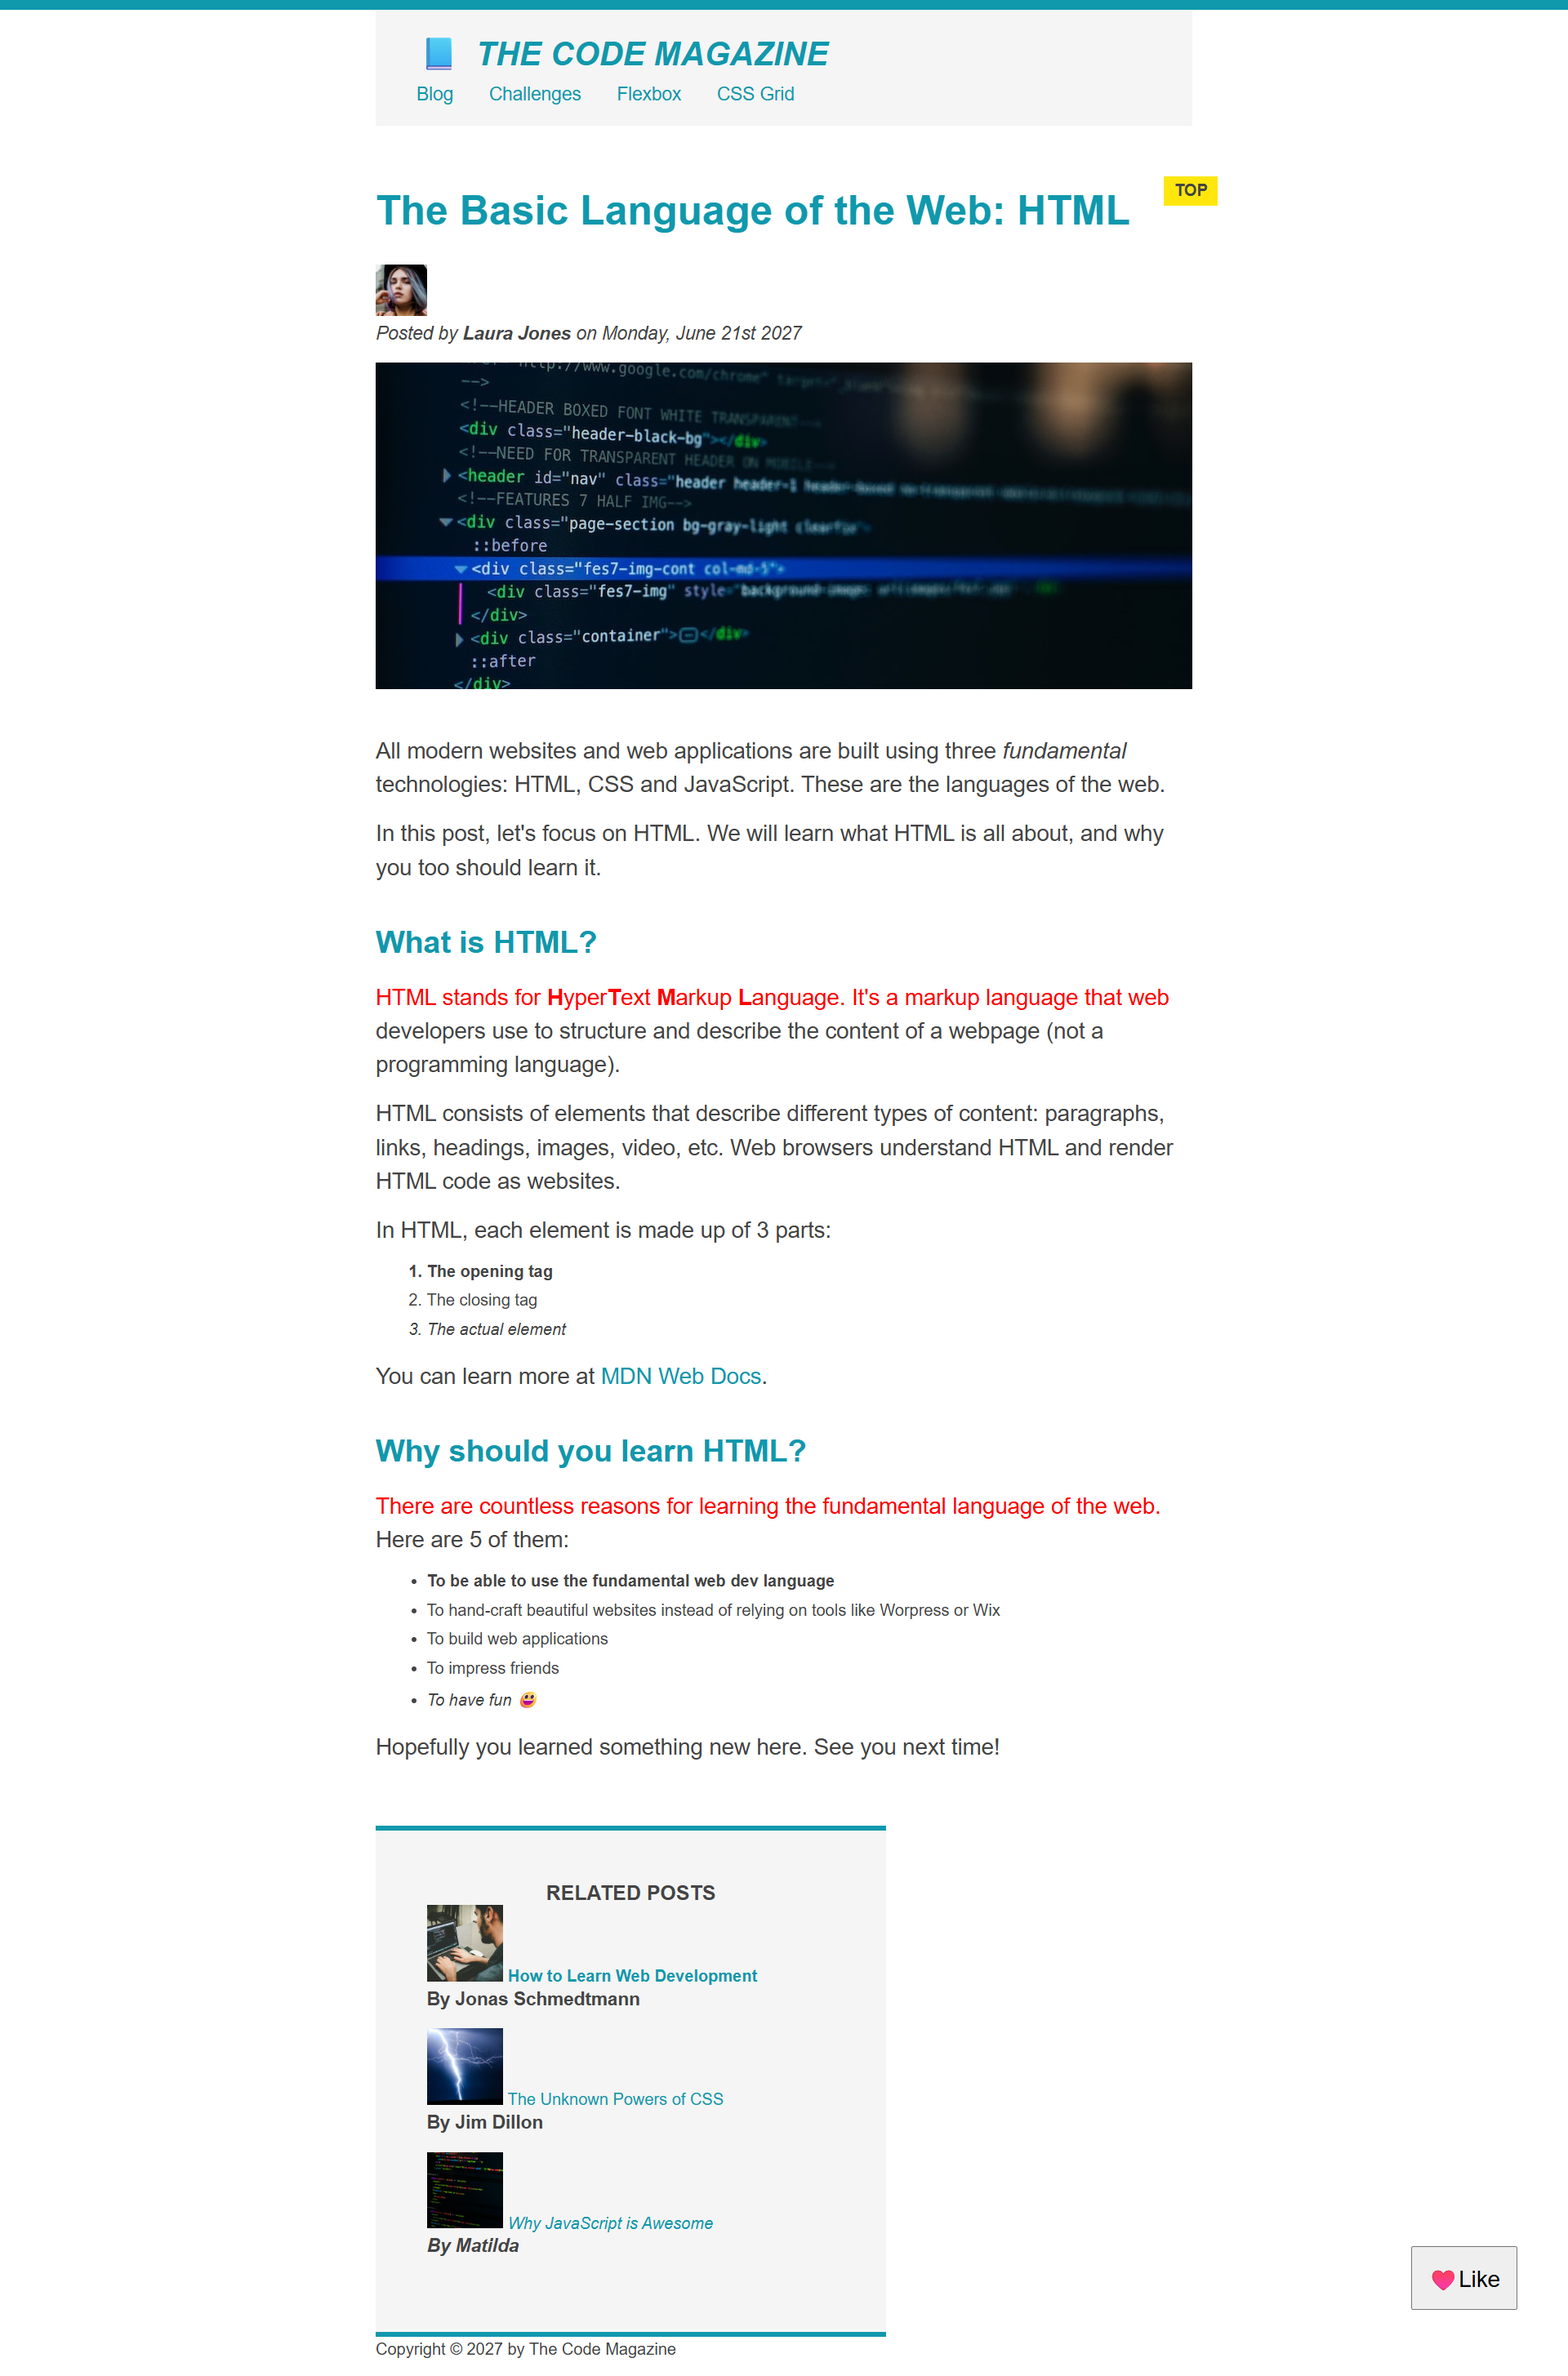
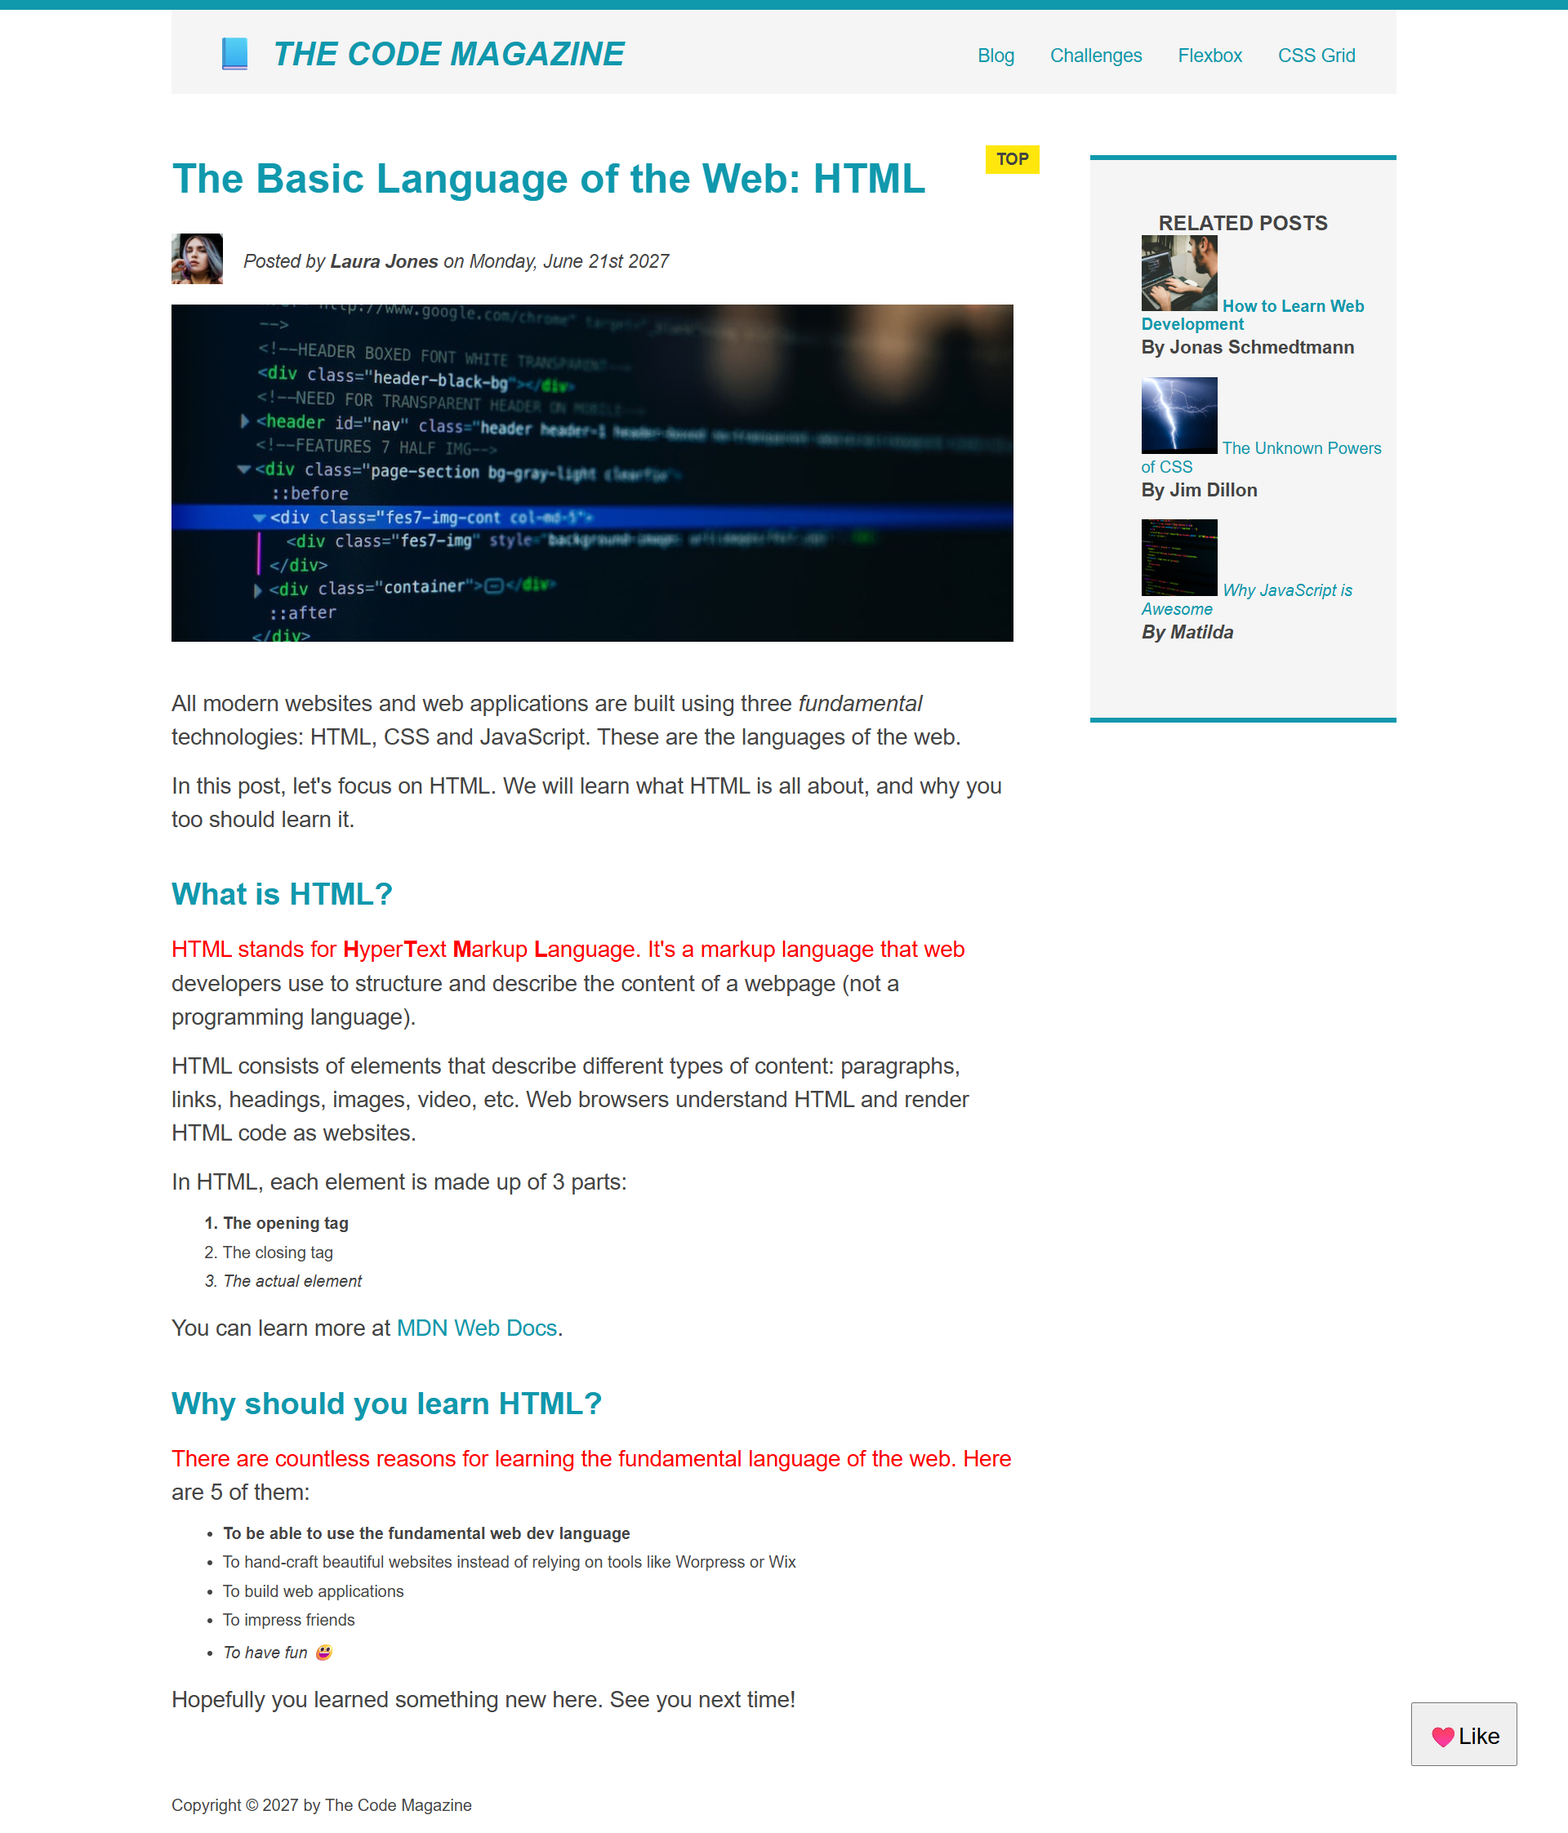
feat: master CSS float styling with clearfix and flow-root

diff --git a/code-magazine/style.css b/code-magazine/style.css
@@ -14,7 +14,7 @@ body {
 }
 
 .container {
-  width: 800px;
+  width: 1200px;
   /* margin-left: auto;
   margin-right: auto; */
   margin: 0 auto;
@@ -58,7 +58,6 @@ h3 {
 }
 
 h1 {
-  color: #1098ad;
   font-size: 26xp;
   text-transform: uppercase;
   font-style: italic;
@@ -192,7 +191,7 @@ nav a:link {
   display: block; */
 
   margin-right: 30px;
-  margin-top: 10px;
+  margin-top: 15px;
   display: inline-block;
 }
 
@@ -238,4 +237,49 @@ h2::after {
   position: absolute;
   top: -10px;
   right: -25px;
+}
+
+/* FLOATS */
+.author-img {
+  float: left;
+  margin-bottom: 20px;
+}
+
+.author {
+  float: left;
+  margin-top: 15px;
+  margin-left: 20px;
+}
+
+h1 {
+  float: left;
+}
+
+nav {
+  float: right;
+}
+
+/* .clear{
+  clear: both;
+} */
+
+.clearfix::after {
+  clear: both;
+  content: "";
+  display: block;
+}
+
+article {
+  /* background-color: #008000; */
+  width: 825px;
+  float: left;
+}
+aside {
+  /* background-color: #ff0000; */
+  width: 300px;
+  float: right;
+}
+footer {
+  /* background-color: #ffff00; */
+  clear: both;
 }

diff --git a/product-page/style.css b/product-page/style.css
@@ -83,11 +83,11 @@ li:last-child {
   border-top: 4px solid #000000;
 }
 
-.sale{
+.sale {
   position: relative;
 }
 
-h2::before{
+h2::before {
   content: "sale";
   background-color: #ff0000;
   color: #ffffff;
@@ -101,44 +101,39 @@ h2::before{
   letter-spacing: 2px;
 }
 
-
-.color{
+.color {
   display: inline-block;
   margin-right: 10px;
   height: 22px;
   width: 22px;
 }
 
-
-.black{
+.black {
   background-color: #000000;
   /* padding: 10px; */
 }
 
-.blue{
+.blue {
   background-color: #0000ff;
   /* padding: 10px; */
 }
 
-
-.red{
+.red {
   background-color: #ff0000;
   /* padding: 10px; */
 }
 
-.yellow{
+.yellow {
   background-color: #ffff00;
   /* padding: 10px; */
 }
 
-
-.green{
+.green {
   background-color: #008000;
   /* padding: 10px; */
 }
 
-
-.brown{
+.brown {
   background-color: #a52a2a;
   margin-right: 0;
   /* padding: 10px; */

diff --git a/code-magazine/index.html b/code-magazine/index.html
@@ -8,7 +8,7 @@
   </head>
   <body>
     <div class="container">
-      <header class="main-header">
+      <header class="main-header clearfix">
         <h1>📘 The Code Magazine</h1>
 
         <nav>
@@ -18,6 +18,9 @@
           <a href="#">Flexbox</a>
           <a href="#">CSS Grid</a>
         </nav>
+
+
+        <!-- <div class="clear"></div> -->
       </header>
 
       <article>
@@ -29,9 +32,10 @@
             alt="Headshot of Laura Jones"
             width="50"
             height="50"
+            class="author-img"
           />
 
-          <p id="author">
+          <p id="author" class="author">
             Posted by <strong>Laura Jones</strong> on Monday, June 21st 2027
           </p>
 

diff --git a/product-page/index.html b/product-page/index.html
@@ -8,9 +8,8 @@
   </head>
   <body>
     <article class="product">
-
       <div class="sale">
-      <h2>Converse Chunk Taylor All Star Low Top</h2>
+        <h2>Converse Chunk Taylor All Star Low Top</h2>
       </div>
 
       <img

diff --git a/code-magazine/README.md b/code-magazine/README.md
@@ -4,7 +4,7 @@ Welcome to my first web development project! This project started as an HTML-onl
 
 ## Project Description
 
-The Code Magazine is a clean, semantic HTML layout with CSS styling for improved readability, visual appeal, interactive link states, and a solid understanding of the CSS Box Model, display property, positioning, and pseudo-elements.
+The Code Magazine is a clean, semantic HTML layout with CSS styling for improved readability, visual appeal, interactive link states, and a solid understanding of the CSS Box Model, display property, positioning, pseudo-elements, and float layouts.
 
 ## 🖼 Project Preview
 
@@ -24,6 +24,7 @@ The Code Magazine is a clean, semantic HTML layout with CSS styling for improved
 - **CSS Box Model**: Applied padding, margin, borders, and dimensions to control spacing and layout.
 - **CSS Display & Positioning**: Applied block, inline, and inline-block display properties; used normal flow and absolute positioning for layout control.
 - **CSS Pseudo-elements**: Used `::first-line`, `::first-letter`, `::before`, and `::after` to style specific parts of elements and insert decorative content.
+- **CSS Float Styling**: Applied `float: left;` and `float: right;` with clearfix techniques for wrapping text around images and controlling layout flow.
 - **Chrome DevTools**: Used for inspecting and debugging CSS styles.
 
 ## Technologies Used
@@ -65,6 +66,13 @@ The Code Magazine is a clean, semantic HTML layout with CSS styling for improved
   - `::after` — inserts content after an element's content (using `content` property)
   - Adjacent pseudo-elements — using multiple pseudo-elements on the same selector
   - Double colon syntax (`::`) distinguishes pseudo-elements from pseudo-classes (`:`)
+- **CSS Float Styling**:
+  - `float: left;` and `float: right;` — pushing elements to the left or right
+  - `clear: left;`, `clear: right;`, `clear: both;` — stopping elements from wrapping around floats
+  - Parent collapse problem — what happens when a parent contains only floated children
+  - Clearfix hack — using `::after` with `clear: both` to fix parent collapse
+  - `display: flow-root;` — modern way to fix parent collapse
+  - Use cases: wrapping text around images, drop caps, old-school layouts
 
 ## Project Status
 
@@ -73,6 +81,7 @@ The Code Magazine is a clean, semantic HTML layout with CSS styling for improved
 ✅ CSS Box Model applied (padding, margin, borders, dimensions)  
 ✅ CSS Display & Positioning applied  
 ✅ CSS Pseudo-elements applied  
+✅ CSS Float Styling applied  
 ⏳ Responsive design (coming soon)  
 ⏳ JavaScript interactivity (future)
 

diff --git a/README.md b/README.md
@@ -13,13 +13,14 @@ Welcome to my coding log! This repository serves as a documentation of my journe
 
 Here are the projects I have built during my journey:
 
-- **[Code Magazine](code-magazine/)**: ✅ Completed - A semantic HTML structure project now fully styled with CSS (fonts, colors, typography, link states, body border, CSS Box Model, display property, positioning, and pseudo-elements).
+- **[Code Magazine](code-magazine/)**: ✅ Completed - A semantic HTML structure project now fully styled with CSS (fonts, colors, typography, link states, body border, CSS Box Model, display property, positioning, pseudo-elements, and float styling).
 - **[Product Page](product-page/)**: ✅ Completed - A product page for Converse Chuck Taylor sneakers with HTML structure and CSS styling (button hover effects, list styling, borders, link states, `cursor: pointer`, CSS Box Model, display property, positioning, and pseudo-elements).
 
 ## 📅 Progress Log
 
 | Date       | Topic/Module                 | Key Concepts Learned                                                                 |
 | :--------- | :--------------------------- | :----------------------------------------------------------------------------------- |
+| 2026-09-08 | CSS Float Styling            | `float: left;` and `float: right;` — pushing elements left or right; `clear: left;`, `clear: right;`, `clear: both;` — stopping elements from wrapping around floats; parent collapse problem; clearfix hack with `::after` and `clear: both`; `display: flow-root;` — modern fix for parent collapse; use cases: wrapping text around images, drop caps, old-school layouts; applied to Code Magazine project |
 | 2026-08-27 | CSS Pseudo-elements & Challenge | Applied `::first-line`, `::first-letter`, `::before`, and `::after` to Product Page; completed challenge upgrading Product Page with pseudo-elements and advanced styling techniques |
 | 2026-08-27 | CSS Pseudo-elements          | `::first-line` — styling the first line of text; `::first-letter` — styling the first letter; `::before` and `::after` — inserting content before/after elements using the `content` property; adjacent pseudo-elements; double colon syntax (`::`) vs single colon (`:`) for pseudo-classes |
 | 2026-08-23 | CSS Display & Positioning    | Types of boxes: block-level, inline, and inline-block; `display` property (`block`, `inline`, `inline-block`); positioning modes: normal flow and absolute positioning; `position` property (`static`, `relative`, `absolute`, `fixed`); offset properties (`top`, `right`, `bottom`, `left`) |
